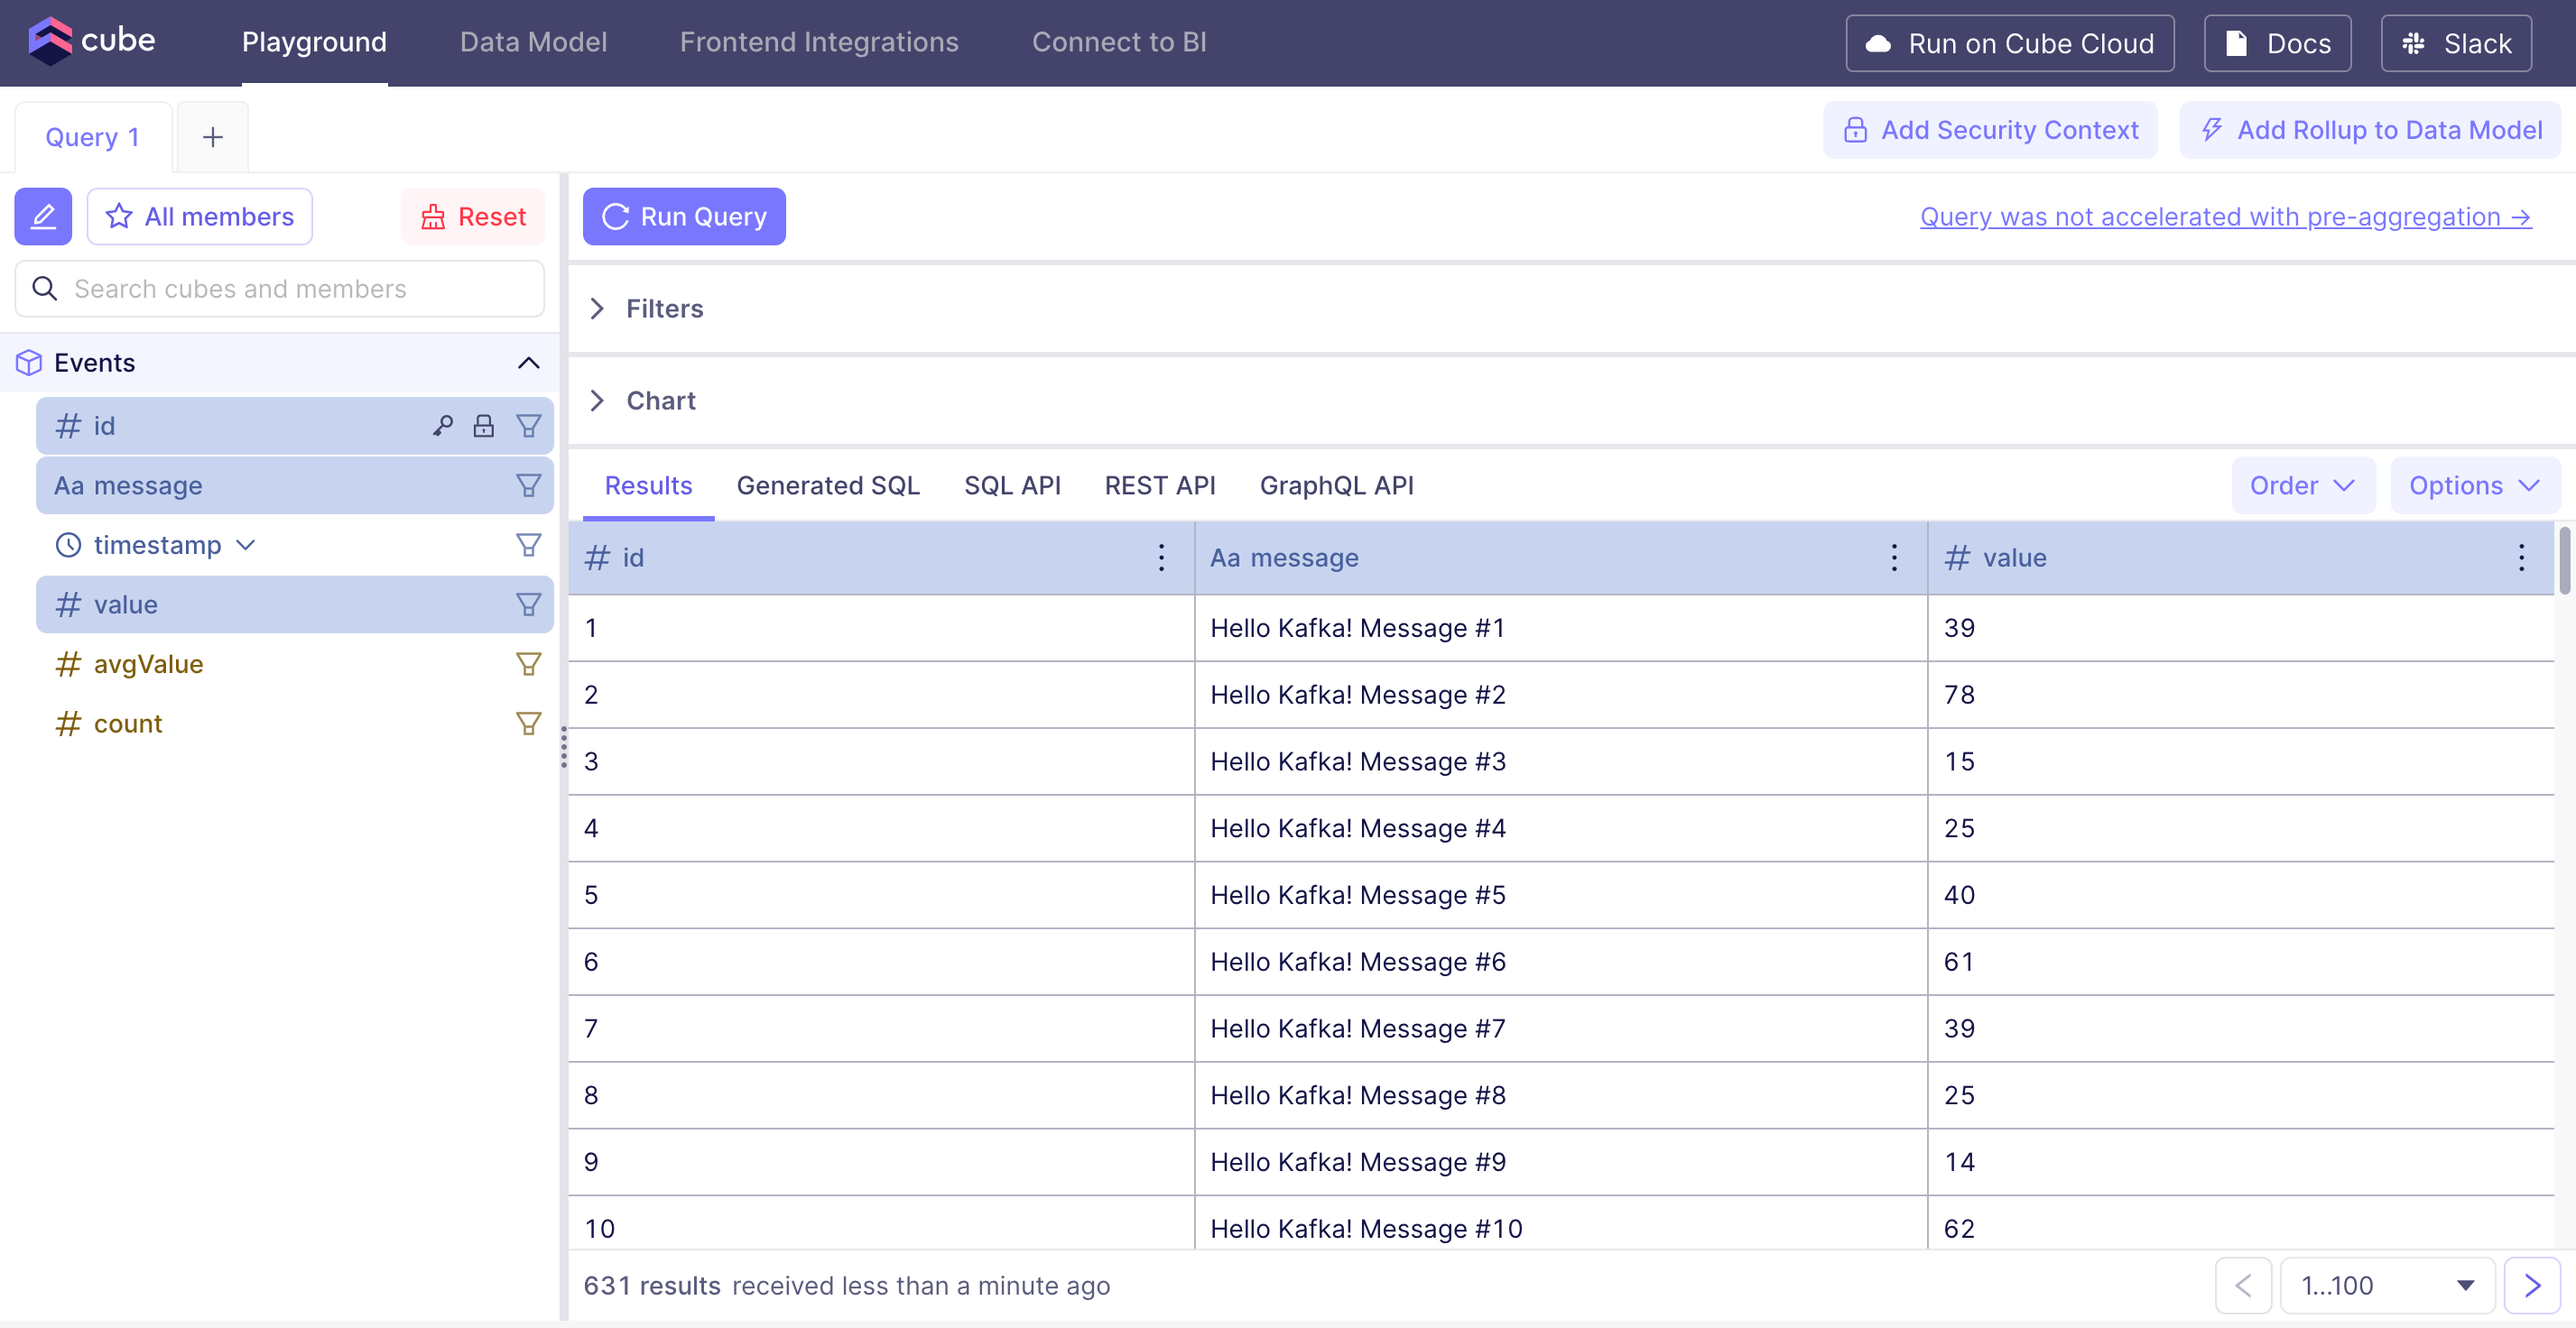
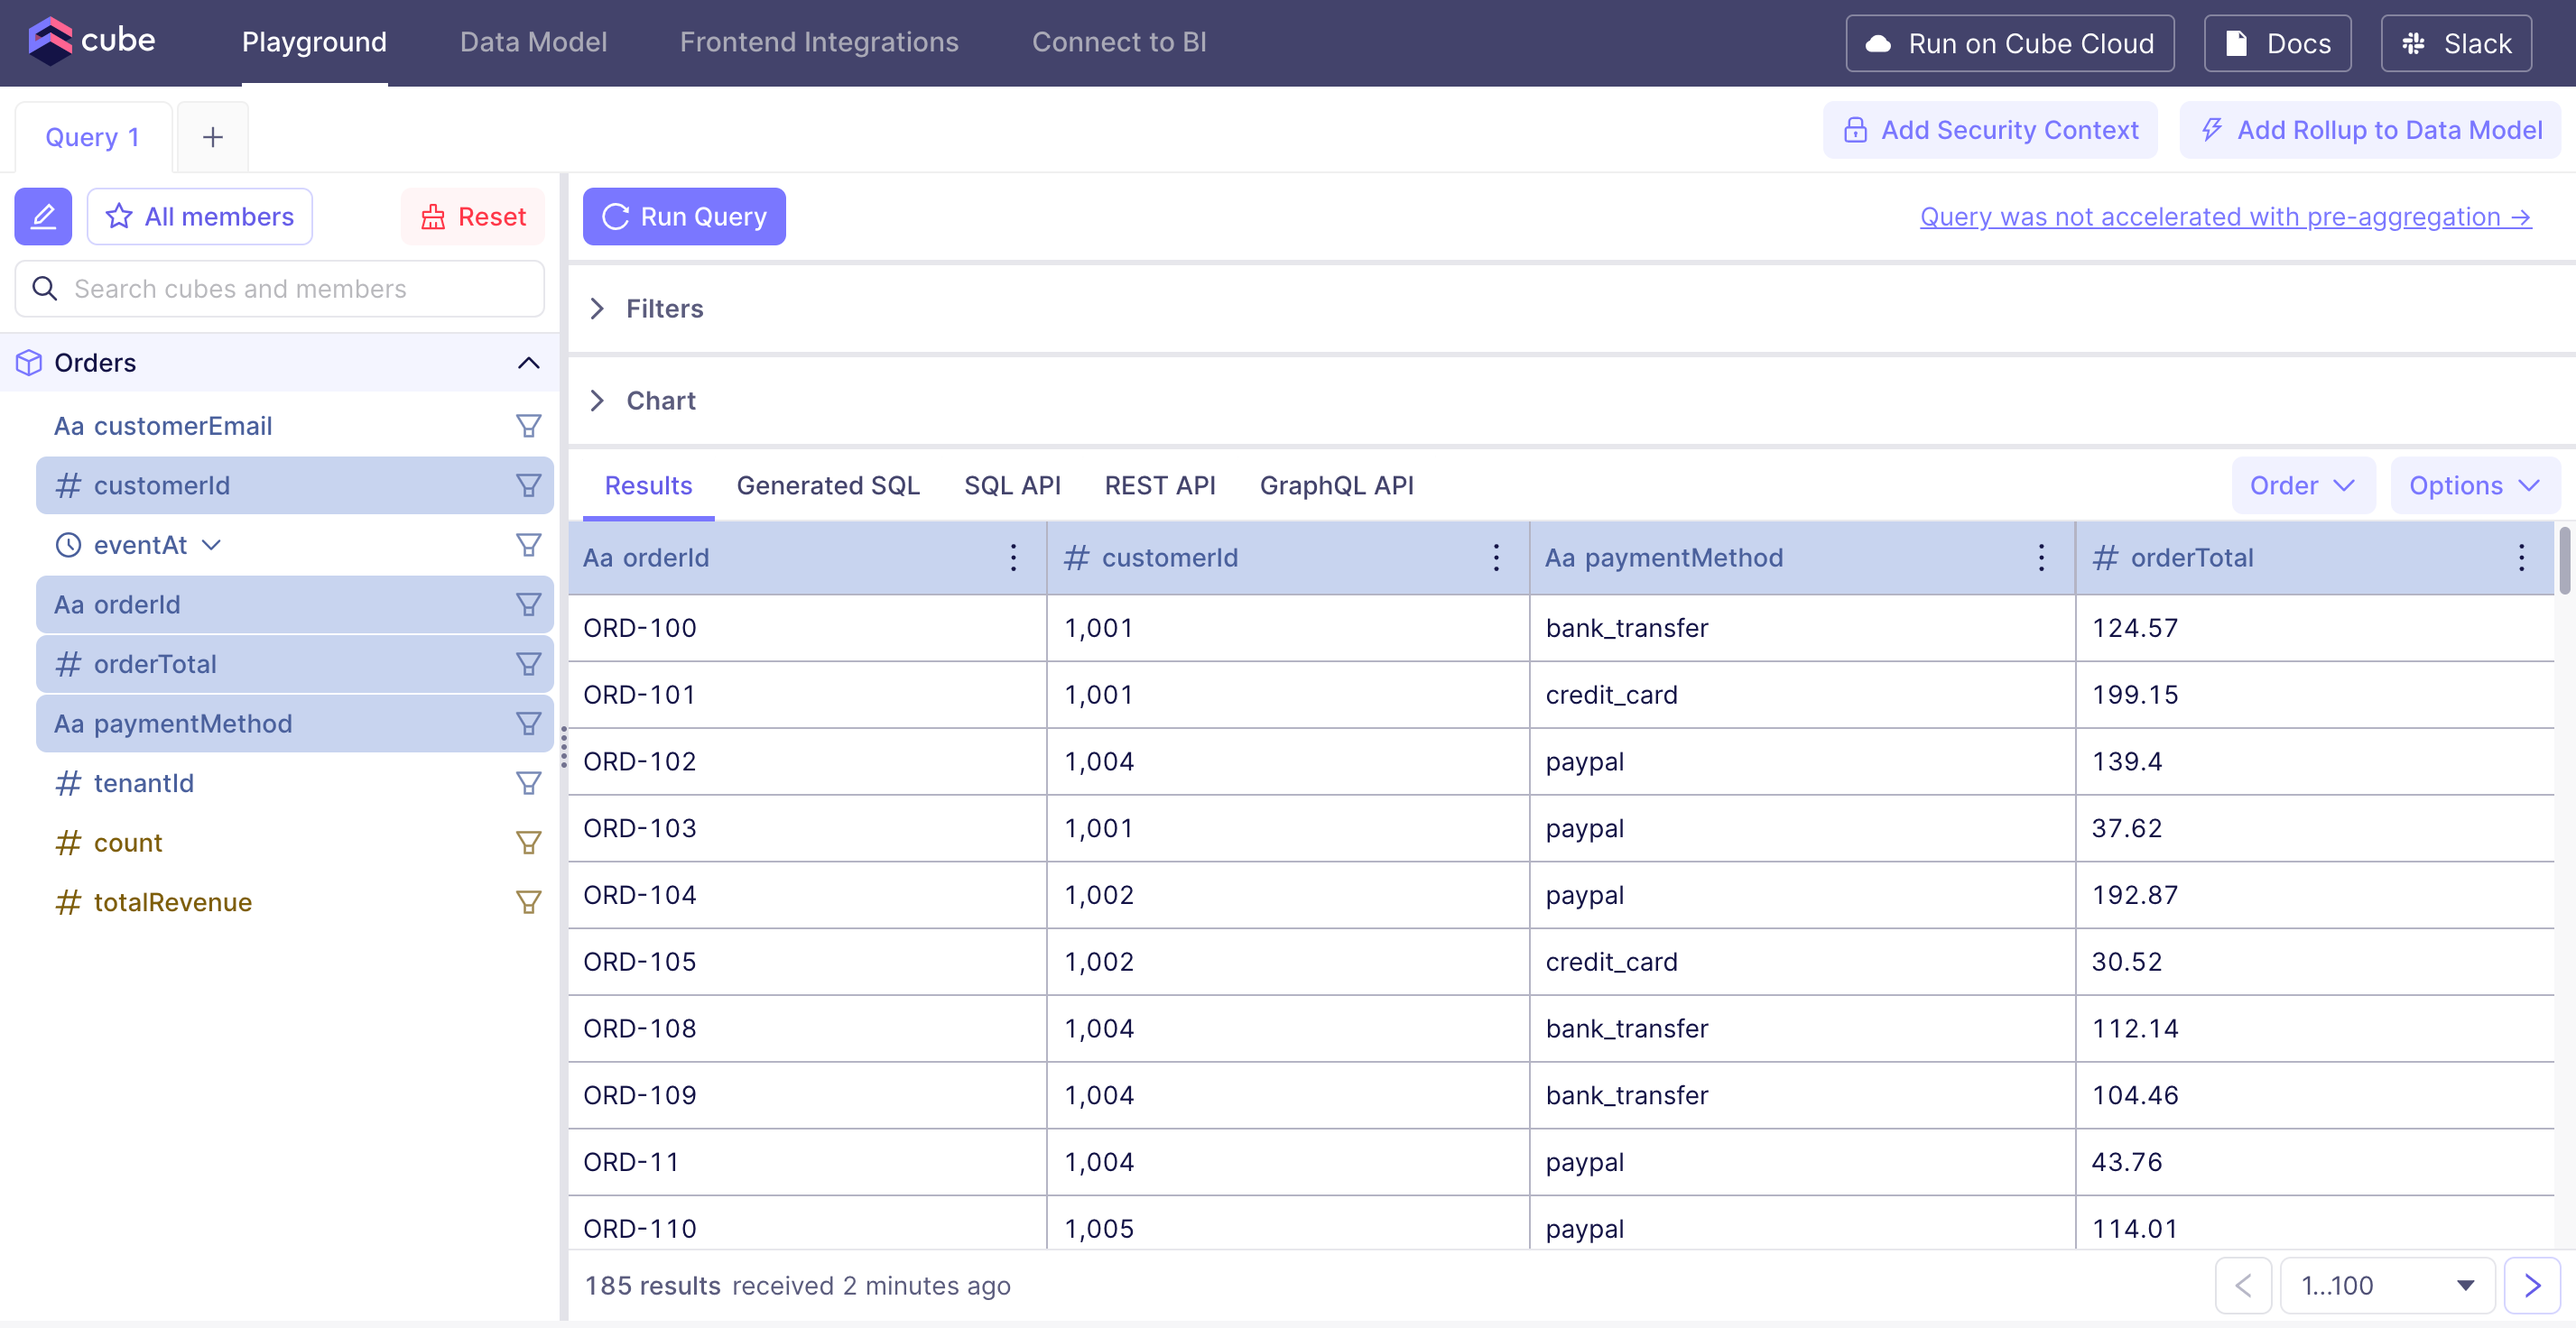
feat: Implement domain-driven order events processing system
Replace events with a more rich order events processing system
that demonstrates complex JSON handling techniques. This commit:

- Restructures events with a domain-driven design approach
- Places tenant_id at the root level for easier access and filtering
- Implements nested customer objects within order domain
- Updates Pinot schema, table config, and producer to handle the new structure
- Fixes JSON path extraction using proper syntax for this Pinot version

diff --git a/cube/model/cubes/Orders.js b/cube/model/cubes/Orders.js
@@ -1,0 +1,52 @@
+cube(`Orders`, {
+  sql_table: `orders`,
+
+  measures: {
+    count: {
+      type: `count`
+    },
+
+    totalRevenue: {
+      sql: `order_total`,
+      type: `sum`,
+      title: `Total Revenue`
+    }
+  },
+
+  dimensions: {
+    tenantId: {
+      sql: `team_id`,
+      type: `number`
+    },
+
+    orderId: {
+      sql: `order_id`,
+      type: `string`
+    },
+
+    paymentMethod: {
+      sql: `payment_method`,
+      type: `string`
+    },
+
+    customerId: {
+      sql: `customer_id`,
+      type: `number`
+    },
+
+    customerEmail: {
+      sql: `customer_email`,
+      type: `string`
+    },
+
+    orderTotal: {
+      sql: `order_total`,
+      type: `number`
+    },
+
+    eventAt: {
+      sql: `event_at`,
+      type: `time`
+    }
+  }
+})

diff --git a/producer/producer.py b/producer/producer.py
@@ -2,6 +2,7 @@ import json
 import os
 import time
 import random
+import uuid
 from datetime import datetime
 from kafka import KafkaProducer
 
@@ -18,29 +19,57 @@ producer = KafkaProducer(
 
 print(f"Producer started. Sending events to topic '{topic_name}' every {interval_ms}ms")
 
-# Event counter
-counter = 0
+# Sample data for random selection
+tenant_ids = [100, 200, 300]
+user_ids = [1001, 1002, 1003, 1004, 1005]
+event_types = ["order.created", "order.updated", "order.shipped", "order.canceled"]
+payment_methods = ["credit_card", "paypal", "bank_transfer"]
 
 # Generate and send events indefinitely
+counter = 0
 while True:
-    # Create an event with timestamp and random data
-    counter += 1
+  # Create an event with a timestamp and structured data
+  counter += 1
 
-    # Generate ISO format datetime with microsecond precision and Z suffix
-    timestamp_iso = datetime.utcnow().strftime('%Y-%m-%dT%H:%M:%S.%fZ')
+  # Generate ISO format datetime
+  event_timestamp = datetime.utcnow().strftime('%Y-%m-%dT%H:%M:%S.%fZ')
 
-    event = {
-        'id': counter,
-        'timestamp': timestamp_iso,
-        'value': random.randint(1, 100),
-        'message': f"Hello Kafka! Message #{counter}"
+  # Generate a unique event ID
+  event_id = str(uuid.uuid4())
+
+  # Select random values for the event
+  tenant_id = random.choice(tenant_ids)
+  user_id = random.choice(user_ids)
+
+  # For demonstration, we'll set event_type to order.created 70% of the time
+  # and other types 30% of the time
+  event_type = "order.created" if random.random() < 0.7 else random.choice(event_types[1:])
+
+  # Generate order total (a random value between $10 and $200)
+  order_total = round(random.uniform(10, 200), 2)
+
+  # Create the domain-driven event structure with tenant_id at the root
+  event = {
+    "id": event_id,
+    "tenant_id": tenant_id,
+    "event_type": event_type,
+    "created_at": event_timestamp,
+    "object": {
+      "id": f"ORD-{counter}",
+      "total": order_total,
+      "payment_method": random.choice(payment_methods),
+      "customer": {
+        "id": user_id,
+        "email": f"user{user_id}@example.com"
+      }
     }
+  }
 
-    # Send the event to Kafka
-    producer.send(topic_name, event)
+  # Send the event to Kafka
+  producer.send(topic_name, event)
 
-    # Print confirmation message
-    print(f"Sent event: {event}")
+  # Print confirmation message
+  print(f"Sent event: {json.dumps(event, indent=2)}")
 
-    # Wait for the specified interval
-    time.sleep(interval_ms / 1000)
+  # Wait for the specified interval
+  time.sleep(interval_ms / 1000)

diff --git a/README.md b/README.md
@@ -1,6 +1,6 @@
 # Real-Time Analytics Pipeline with Kafka, Apache Pinot and Cube
 
-This project sets up a real-time analytics pipeline using Apache Kafka as the message queue, Apache Pinot as the real-time analytics database, and Cube as the analytics API platform. It includes a simple event producer that generates random data events with ISO timestamps and publishes them to Kafka, which are then consumed by Pinot for real-time analysis and made available through Cube for visualization and exploration.
+This project sets up a real-time analytics pipeline using Apache Kafka as the message queue, Apache Pinot as the real-time analytics database, and Cube as the analytics API platform. It includes a simple order producer that generates order events with nested JSON structure and publishes them to Kafka, which are then consumed by Pinot for real-time analysis and made available through Cube for visualization and exploration.
 
 ## Architecture
 
@@ -10,7 +10,7 @@ The pipeline consists of:
 
 - **Zookeeper**: For coordination between Kafka and Pinot components
 - **Kafka**: Message broker for handling event streams
-- **Event Producer**: Python application that generates random events with ISO timestamps
+- **Event Producer**: Python application that generates order events
 - **Apache Pinot**: Real-time analytics database with components:
   - Controller: Manages the Pinot cluster
   - Broker: Handles queries
@@ -56,20 +56,18 @@ Access the Pinot UI at http://localhost:9000 and navigate to the Query Console t
 
 Example query:
 ```sql
-SELECT COUNT(*) FROM events
+SELECT COUNT(*) FROM orders
 ```
-
 ![Data Explorer](images/data-explorer.png)
 
 ### 6. Explore with Cube
 
 Access the Cube Playground at http://localhost:4000 to build and visualize queries.
-
 In the Cube Playground, you can build queries using the visual query builder:
 
-1. Select the `Events` cube
-2. Add measures like `Events.count` or `Events.avgValue`
-3. Add dimensions like `Events.timestamp`
+1. Select the `Orders` cube
+2. Add measures like `Orders.count` or `Orders.totalRevenue`
+3. Add dimensions like `Orders.paymentMethod`
 4. Run the query and visualize the results
 
 ![Cube](images/cube.png)
@@ -119,17 +117,22 @@ docker-compose up -d --build
     ├── cube.js                 # Main Cube configuration
     └── model/                  # Data models directory
         └── cubes/              # Cube definitions
-            └── Events.js       # Events cube definition
+            └── Orders.js       # Orders cube definition
 ```
 
 ## Schema Definition
 
-The `events` table schema includes:
+The `orders` table schema includes:
 
-- `id` (INT): Unique identifier for each event
-- `timestamp` (STRING): ISO format timestamp (e.g., "2025-03-03T18:00:00.000000Z")
-- `value` (INT): Random value between 1-100
-- `message` (STRING): Text message for the event
+- `event_id` (STRING): Unique identifier for each event
+- `tenant_id` (INT): Tenant identifier for the order
+- `event_at` (TIMESTAMP): ISO format timestamp
+- `event_type` (STRING): Type of order event
+- `order_id` (STRING): Identifier for the order
+- `order_total` (DOUBLE): Total value of the order
+- `payment_method` (STRING): Method used for payment
+- `customer_id` (LONG): Customer identifier
+- `customer_email` (STRING): Customer's email address
 
 ## Customizing
 
@@ -140,7 +143,7 @@ To modify the event data structure or generation frequency:
 1. Edit `producer/producer.py`
 2. Update schema in `pinot-config/schema.json`
 3. Update table configuration in `pinot-config/table.json`
-4. Update Cube model in `cube/model/cubes/Events.js`
+4. Update Cube model in `cube/model/cubes/Orders.js`
 5. Rebuild and restart:
    ```bash
    docker-compose down -v
